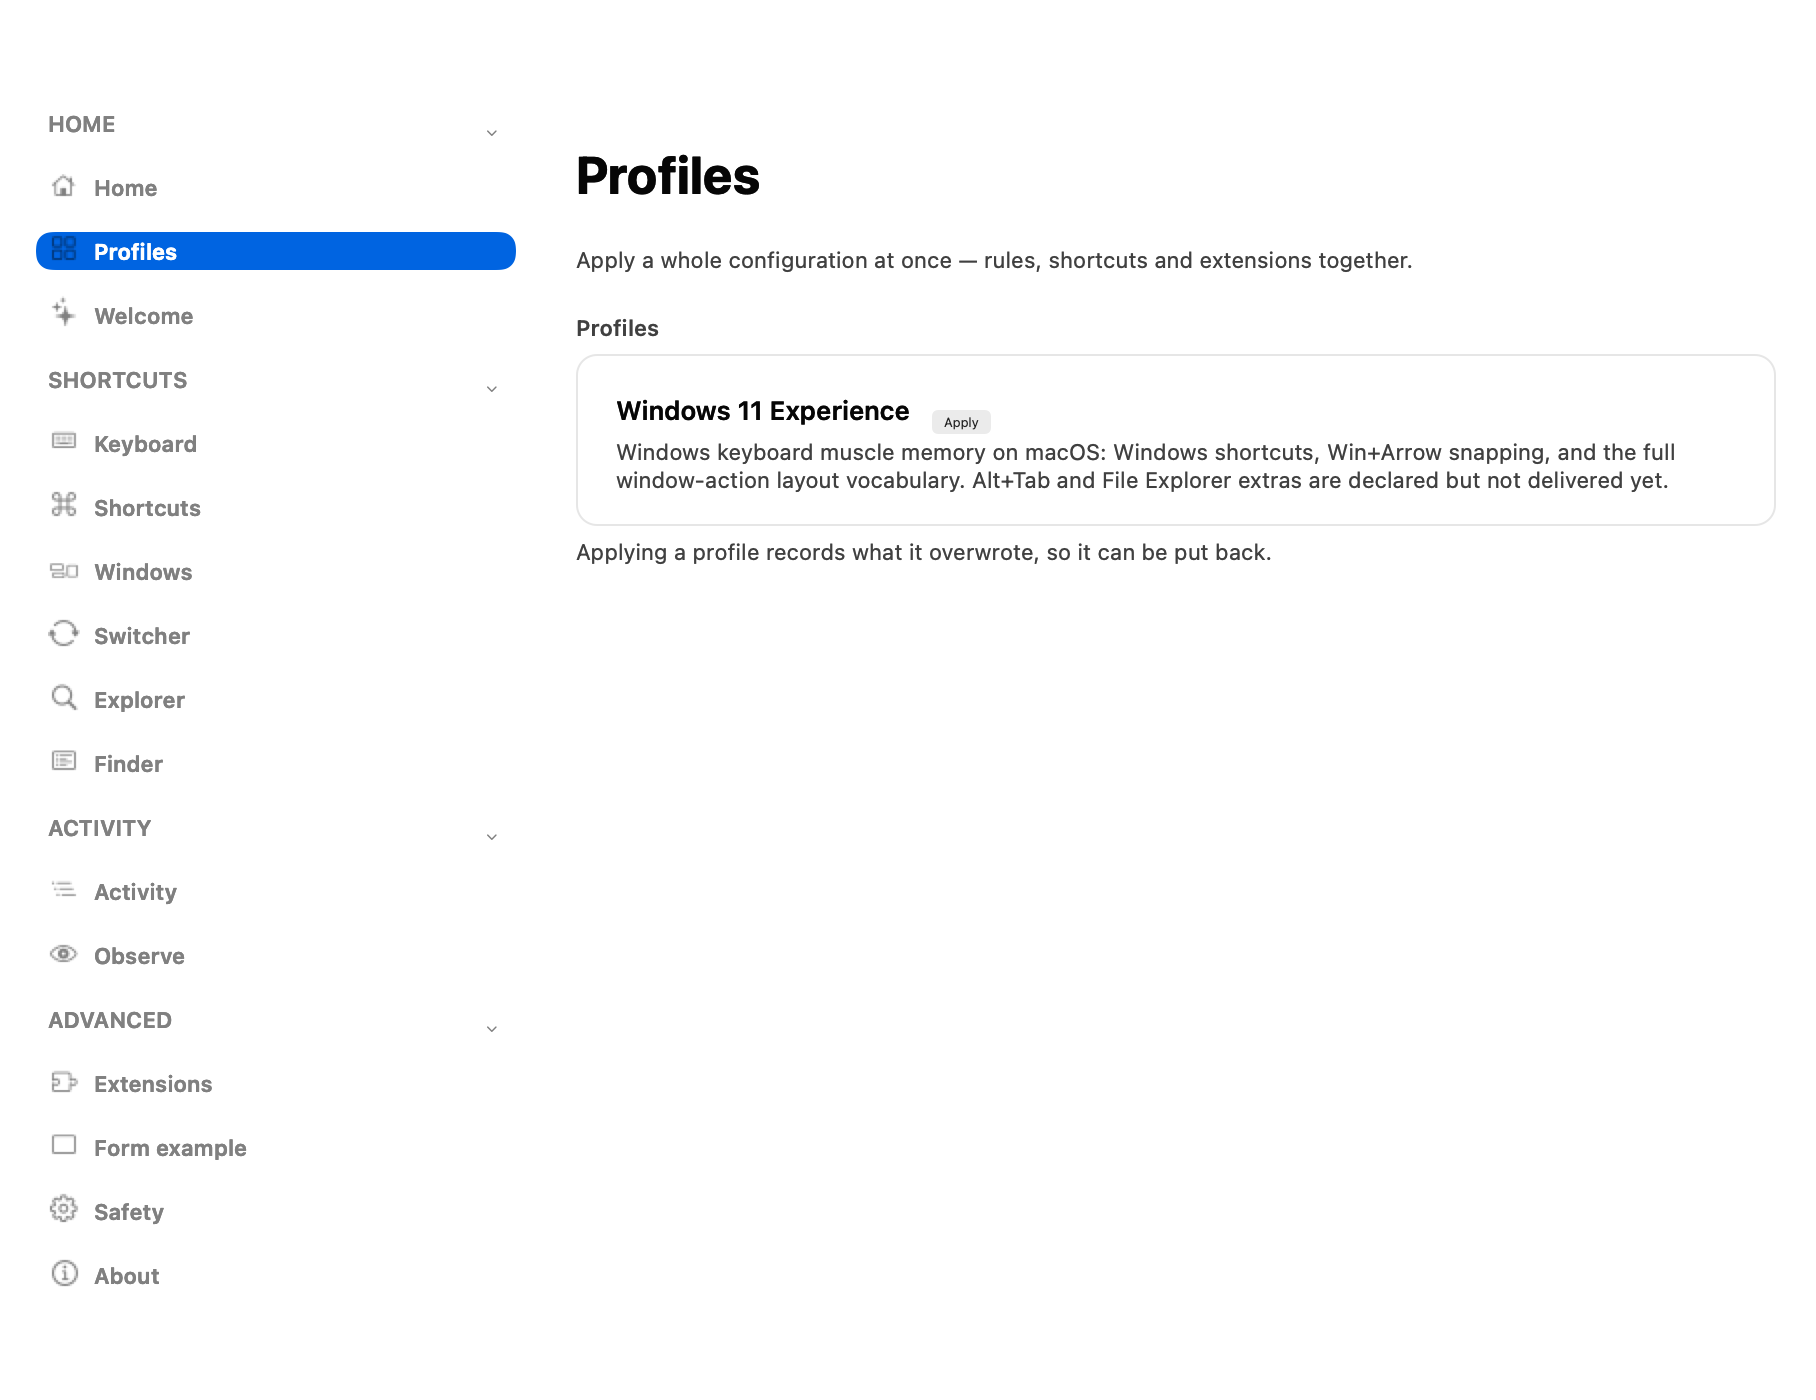
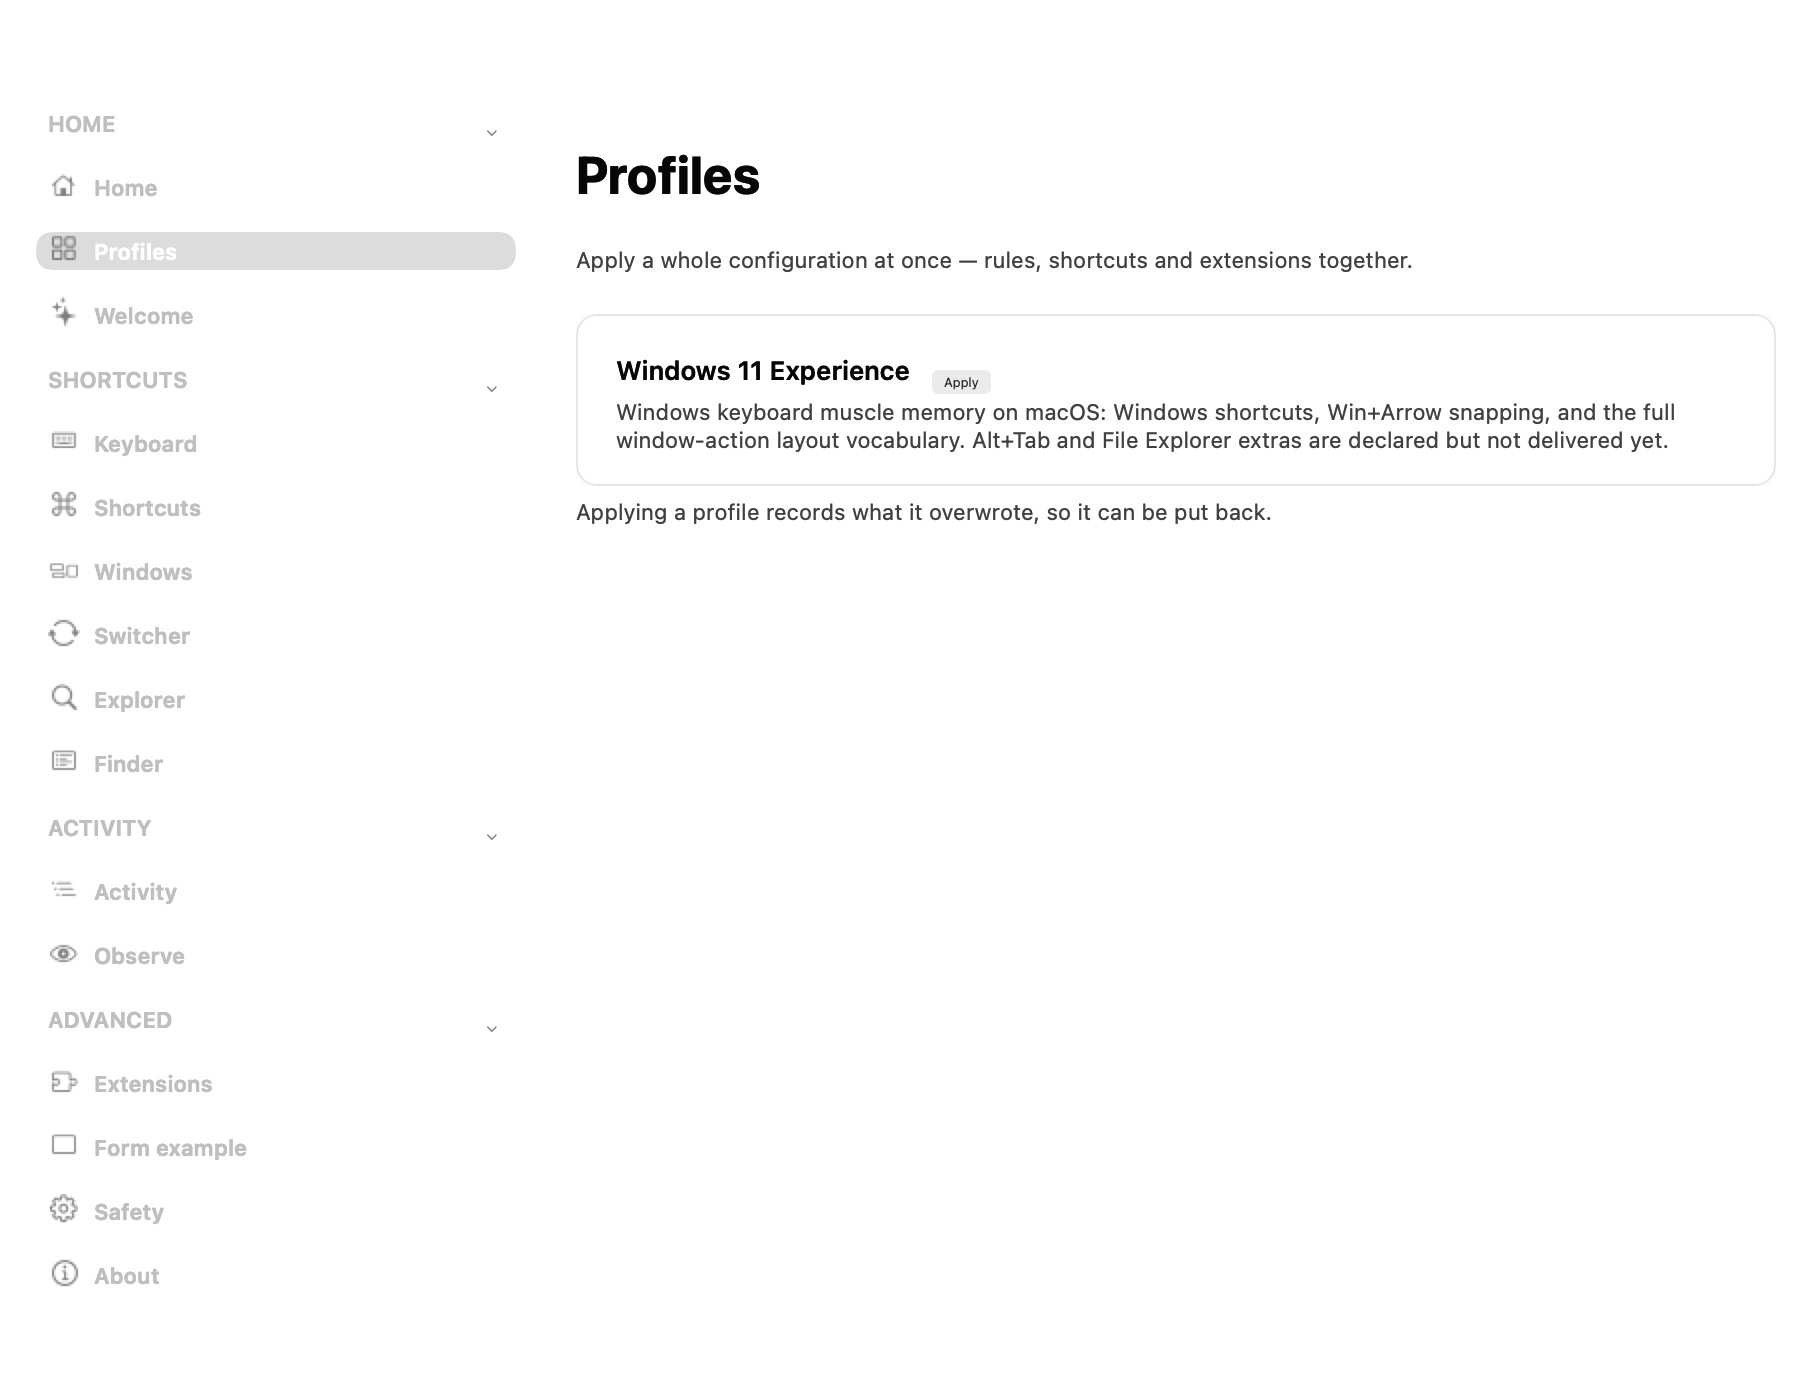
fix: a section cap that repeated the page title was noise in a heading's clothes
Measured on `core.profiles`: the page said "Profiles" and the section
immediately under it said "Profiles" again. Same on `core.observe` —
"Observe" twice.

A heading that repeats the one above it teaches the reader nothing and
makes them work out why it is there. So a cap is dropped when it is the
same word as the page title, and the group below moves up to where the
cap was.

The comparison happens in `PageViewController`, which is the only place
that knows the title — `CardControl` alone cannot tell "Profiles" from a
section genuinely named Profiles on a page called something else. It marks
the cap as a repeat and the controller drops it.

Verified: --audit 15 pages 0 fail; CoreTests 111 pass; --click-test passes
3 buttons + 2 write paths + profile apply; `core-profiles.png` now reads
title, description, group, footnote — and nothing twice.

diff --git a/macos/Sources/CrossOSApp/CardControl.swift b/macos/Sources/CrossOSApp/CardControl.swift
@@ -20,6 +20,8 @@ class CardControl: NSStackView {
     private let heading = NSTextField(labelWithString: "")
     private let subtitle = NSTextField(labelWithString: "")
     private let bodyStack = NSStackView()
+    /// Whether this control's cap is the same word as the page title.
+    private(set) var repeatsTitle = false
     private var card: Card?
     private var cardColumn: NSStackView?
 
@@ -33,7 +35,21 @@ class CardControl: NSStackView {
         // Humanised, for the same reason a section cap is: the daemon sends
         // `label: "matrix"` and a heading reading "matrix" is a schema value
         // leaking into the interface.
-        heading.stringValue = Humanize.phrase(control.label.isEmpty ? control.id : control.label)
+        // The cap is HIDDEN when it would repeat the page's title.
+        //
+        // Measured on `core.profiles` and `core.observe`: the page said
+        // "Profiles" and then the section immediately below said "Profiles"
+        // again, and "Observe" twice. A heading that repeats the one above it
+        // is noise wearing a heading's clothes — the reader learns nothing
+        // from the second one and has to work out why it is there.
+        //
+        // The title is not known here, so the cap is marked as a repeat and
+        // `PageViewController` drops it once it can compare the two.
+        let capText = Humanize.phrase(control.label.isEmpty ? control.id : control.label)
+        heading.stringValue = capText
+        self.repeatsTitle = capText.caseInsensitiveCompare(
+            control.label.isEmpty ? control.id : control.label
+        ) == .orderedSame
         // A section CAP, not a card title.
         //
         // It was `Typeface.cardTitle` in `Palette.primaryInk` — 15pt semibold
@@ -116,6 +132,17 @@ class CardControl: NSStackView {
         addArrangedSubview(column)
         // Fill the pane. A settings card is the width of the pane it sits in.
         column.widthAnchor.constraint(equalTo: widthAnchor).isActive = true
+    }
+
+    /// Remove the cap, when it is the same word as the page title.
+    ///
+    /// Called by `PageViewController` once the title is known. The cap is
+    /// removed rather than hidden so the group below moves up to where it
+    /// would have been.
+    func dropCap() {
+        guard let column = cardColumn else { return }
+        column.removeArrangedSubview(heading)
+        heading.removeFromSuperview()
     }
 
     @available(*, unavailable)

diff --git a/macos/Sources/CrossOSApp/PageViewController.swift b/macos/Sources/CrossOSApp/PageViewController.swift
@@ -306,6 +306,13 @@ public final class PageViewController: NSViewController {
                     constant: -(Gap.plane * 2)
                 ).isActive = true
                 view.setContentHuggingPriority(.required, for: .vertical)
+                // A section cap that says what the title already said is
+                // dropped here, where the title is known. Measured on
+                // `core.profiles` and `core.observe`: the page said
+                // "Profiles" and the section under it said "Profiles" again.
+                if let card = view as? CardControl, card.repeatsTitle {
+                    card.dropCap()
+                }
             }
         }
 
